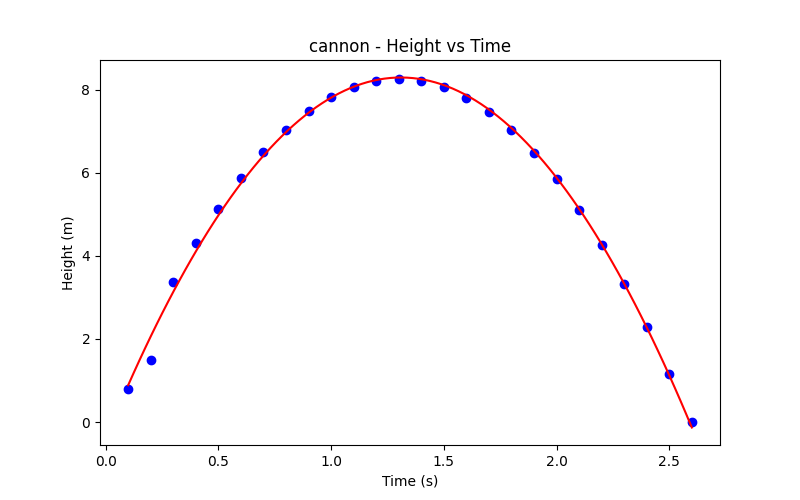
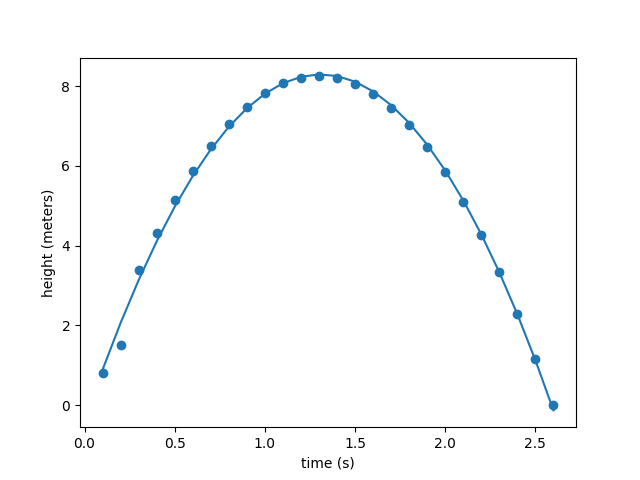
undid all the deletes and now everything is there and should work again

diff --git a/cannonball.py b/cannonball.py
@@ -1,27 +1,62 @@
 import numpy as np
 import matplotlib.pyplot as plt
-import scipy
-from scipy.stats import norm
-from sklearn.model_selection import train_test_split
+from scipy.optimize import curve_fit
+
 def linear(x, m, b):
     return m * x + b
+
 def quadratic(x, a, b, c):
     return a*x**2 + b*x + c
-data = np.loadtxt("cannon.txt", delimiter=",", skiprows=1)
-t = data[:, 0].astype(np.float32)
-x = data[:, 1].astype(np.float32)
-h = data[:, 2].astype(np.float32)
-print("t = ", t)
-print("x = ", x)
-print("h = ", h)
-params, params_cov = scipy.optimize.curve_fit(linear, t, x)
-slope = params[0]
-intercept = params[1]
-print('x = {:.3f} t + {:.3f}'.format(slope,intercept))
+
+data = np.loadtxt("cannon.txt", delimiter=",",dtype=str, skiprows=1)
+t = data[:, 0].astype(float)
+x = data[:, 1].astype(float)
+h = data[:, 2].astype(float)
+
+params_x, _ = curve_fit(linear, t, x)
+m, b = params_x
+print(f"CANNON: x = {m:.3f} t + {b:.3f}")
 plt.figure()
-plt.scatter(t, x, label='Data')
-plt.plot(t, linear(t, slope, intercept),label='Linear Fit') #change this label if you have a non-linear fit
-plt.legend(loc='best')
-plt.xlabel("time (s)") #change the units as appropriate
-plt.ylabel("distance in x direction (meters)")  #change the units as appropriate
+plt.scatter(t, x)
+plt.plot(t, linear(t, m, b))
+plt.xlabel("Time (s)")
+plt.ylabel("Distance x (m)")
+plt.title("Cannon – x vs Time")
+params_h, _ = curve_fit(quadratic, t, h)
+a, b2, c = params_h
+print(f"CANNON: h = {a:.3f} t^2 + {b2:.3f} t + {c:.3f}")
+t_fit = np.linspace(t.min(), t.max(), 200)
+plt.figure()
+plt.scatter(t, h)
+plt.plot(t_fit, quadratic(t_fit, a, b2, c))
+plt.xlabel("Time (s)")
+plt.ylabel("Height (m)")
+plt.title("Cannon – Height vs Time")
+data = np.loadtxt("piano.txt", delimiter=",", dtype=str, skiprows=1)
+t = data[:, 0].astype(float)
+x = data[:, 1].astype(float)
+h = data[:, 2].astype(float)
+params_x, _ = curve_fit(linear, t, x)
+m, b = params_x
+print(f"PIANO: x = {m:.3f} t + {b:.3f}")
+plt.figure()
+plt.scatter(t, x)
+plt.plot(t, linear(t, m, b))
+plt.xlabel("Time (s)")
+plt.ylabel("Distance x (m)")
+plt.title("Piano – x vs Time")
+params_h, _ = curve_fit(quadratic, t, h)
+a, b2, c = params_h
+print(f"PIANO: h = {a:.3f} t^2 + {b2:.3f} t + {c:.3f}")
+t_fit = np.linspace(t.min(), t.max(), 200)
+plt.figure()
+plt.scatter(t, h)
+plt.plot(t_fit, quadratic(t_fit, a, b2, c))
+plt.xlabel("Time (s)")
+plt.ylabel("Height (m)")
+plt.title("Piano – Height vs Time")
 plt.show()
+#the lines fit the plotted points very well, in the linear one you
+#can see its off a little bit, but in the quadratic there ins't as much
+#of a notice, I think this is due to the amount of data points it uses
+#comapred the linear. 
